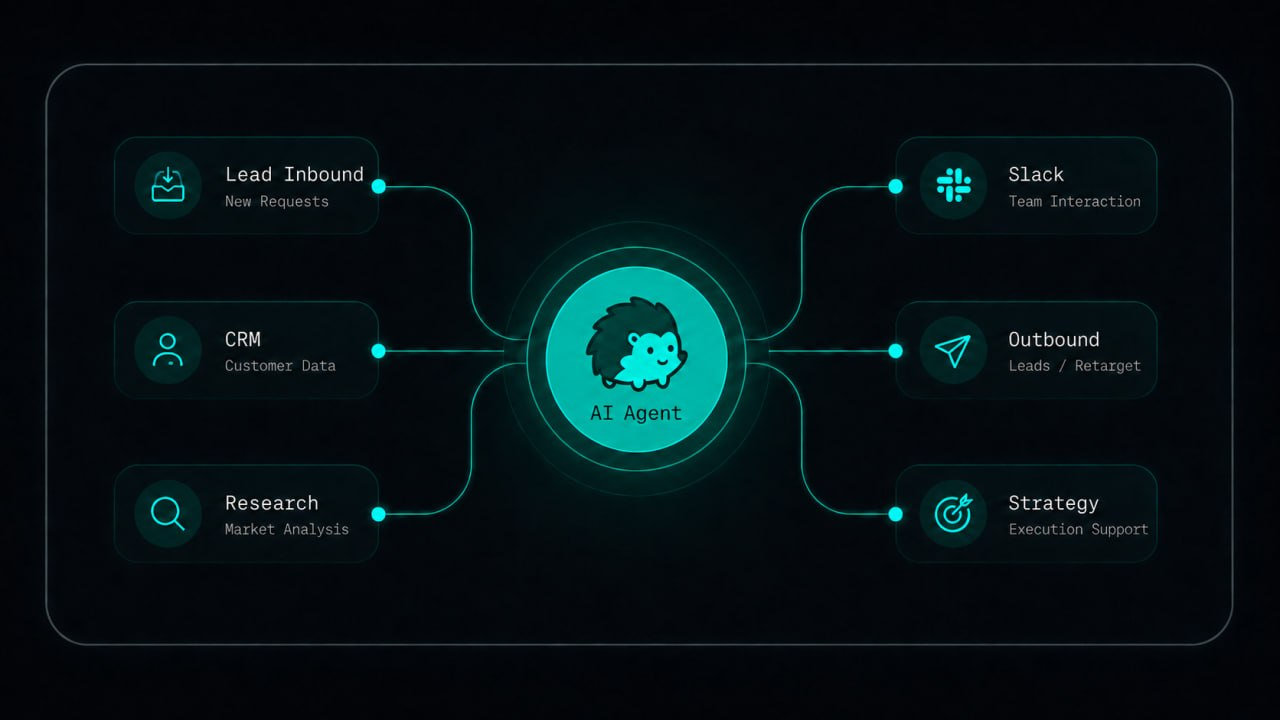
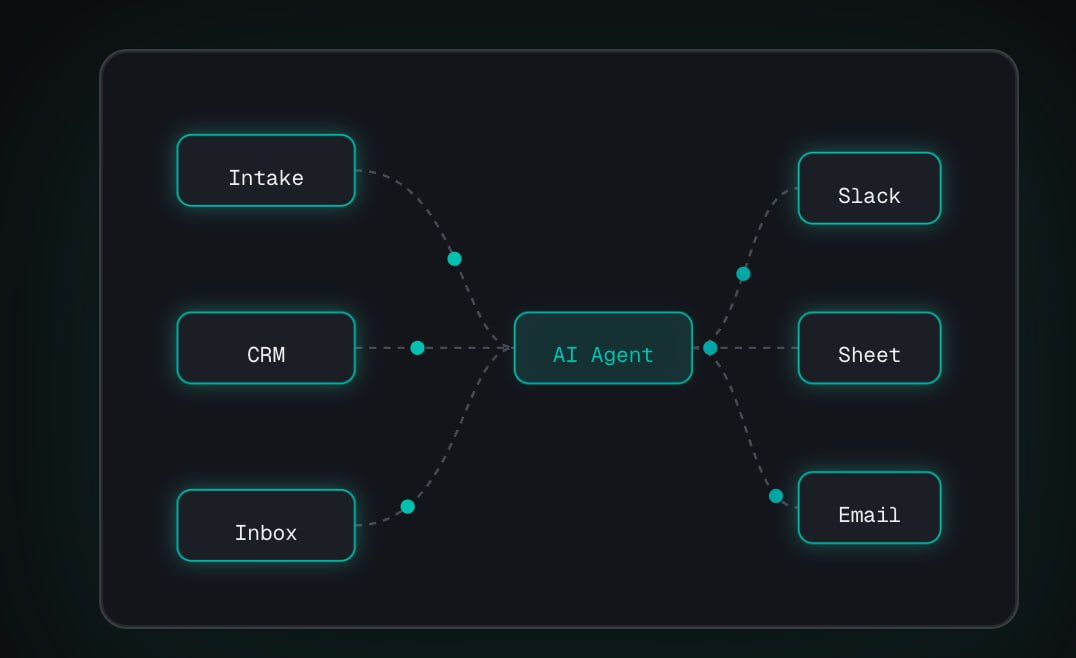
Restore polished hub diagram image in hero section

diff --git a/index.html b/index.html
@@ -950,63 +950,8 @@ body::before {
         <div class="hero-main-row">
           <h1 class="hero-headline">Take back your time with custom <em>AI Workflows</em>.</h1>
           <div class="hero-visual">
-            <div class="viz viz-graph">
-              <svg viewBox="15 40 480 270" class="viz-svg" preserveAspectRatio="xMidYMid meet">
-                <defs>
-                  <marker id="ar" viewBox="0 0 10 10" refX="8" refY="5" markerWidth="6" markerHeight="6" orient="auto">
-                    <path d="M0,0 L10,5 L0,10 z" fill="currentColor"/>
-                  </marker>
-                </defs>
-                <g class="viz-edges">
-                  <path d="M140,80  C200,80  200,180 230,180"/>
-                  <path d="M140,180 C200,180 200,180 230,180"/>
-                  <path d="M140,280 C200,280 200,180 230,180"/>
-                  <path d="M330,180 C360,180 360,90  390,90"/>
-                  <path d="M330,180 C360,180 360,180 390,180"/>
-                  <path d="M330,180 C360,180 360,270 390,270"/>
-                </g>
-                <g class="viz-pulses">
-                  <circle r="4" fill="currentColor" class="viz-pulse">
-                    <animateMotion dur="2.4s" repeatCount="indefinite" path="M140,80  C200,80  200,180 230,180"/>
-                  </circle>
-                  <circle r="4" fill="currentColor" class="viz-pulse">
-                    <animateMotion dur="2.4s" begin="0.4s" repeatCount="indefinite" path="M140,180 C200,180 200,180 230,180"/>
-                  </circle>
-                  <circle r="4" fill="currentColor" class="viz-pulse">
-                    <animateMotion dur="2.4s" begin="0.8s" repeatCount="indefinite" path="M140,280 C200,280 200,180 230,180"/>
-                  </circle>
-                  <circle r="4" fill="currentColor" class="viz-pulse-out">
-                    <animateMotion dur="2s" repeatCount="indefinite" path="M330,180 C360,180 360,90  390,90"/>
-                  </circle>
-                  <circle r="4" fill="currentColor" class="viz-pulse-out">
-                    <animateMotion dur="2s" begin="0.6s" repeatCount="indefinite" path="M330,180 C360,180 360,180 390,180"/>
-                  </circle>
-                  <circle r="4" fill="currentColor" class="viz-pulse-out">
-                    <animateMotion dur="2s" begin="1.2s" repeatCount="indefinite" path="M330,180 C360,180 360,270 390,270"/>
-                  </circle>
-                </g>
-                <g transform="translate(40,60)"  class="viz-node viz-node-anim" style="animation-delay:0s">
-                  <rect width="100" height="40" rx="8"/><text x="50" y="25">Intake</text>
-                </g>
-                <g transform="translate(40,160)" class="viz-node viz-node-anim" style="animation-delay:0.4s">
-                  <rect width="100" height="40" rx="8"/><text x="50" y="25">CRM</text>
-                </g>
-                <g transform="translate(40,260)" class="viz-node viz-node-anim" style="animation-delay:0.8s">
-                  <rect width="100" height="40" rx="8"/><text x="50" y="25">Inbox</text>
-                </g>
-                <g transform="translate(230,160)" class="viz-node viz-node-accent viz-node-pulse">
-                  <rect width="100" height="40" rx="8"/><text x="50" y="25">AI Agent</text>
-                </g>
-                <g transform="translate(390,70)"  class="viz-node viz-node-anim" style="animation-delay:0s">
-                  <rect width="80" height="40" rx="8"/><text x="40" y="25">Slack</text>
-                </g>
-                <g transform="translate(390,160)" class="viz-node viz-node-anim" style="animation-delay:0.6s">
-                  <rect width="80" height="40" rx="8"/><text x="40" y="25">Sheet</text>
-                </g>
-                <g transform="translate(390,250)" class="viz-node viz-node-anim" style="animation-delay:1.2s">
-                  <rect width="80" height="40" rx="8"/><text x="40" y="25">Email</text>
-                </g>
-              </svg>
+            <div class="viz-img-wrap">
+              <img src="/agent-diagram.jpg" alt="AI Agent workflow diagram" style="width:100%;height:auto;display:block;border-radius:16px;">
             </div>
           </div><!-- end hero-visual -->
         </div><!-- end hero-main-row -->
